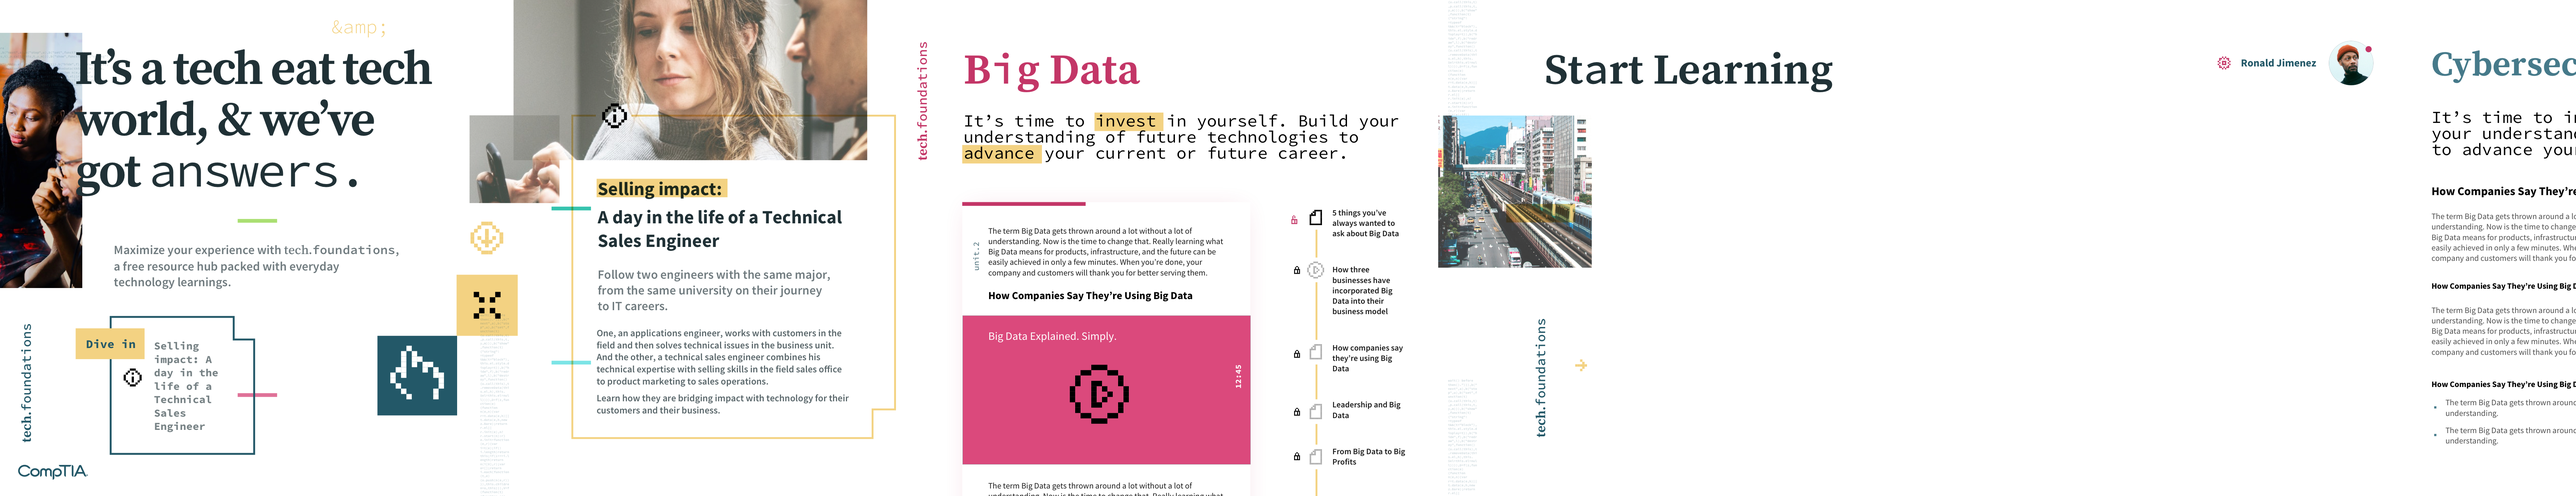
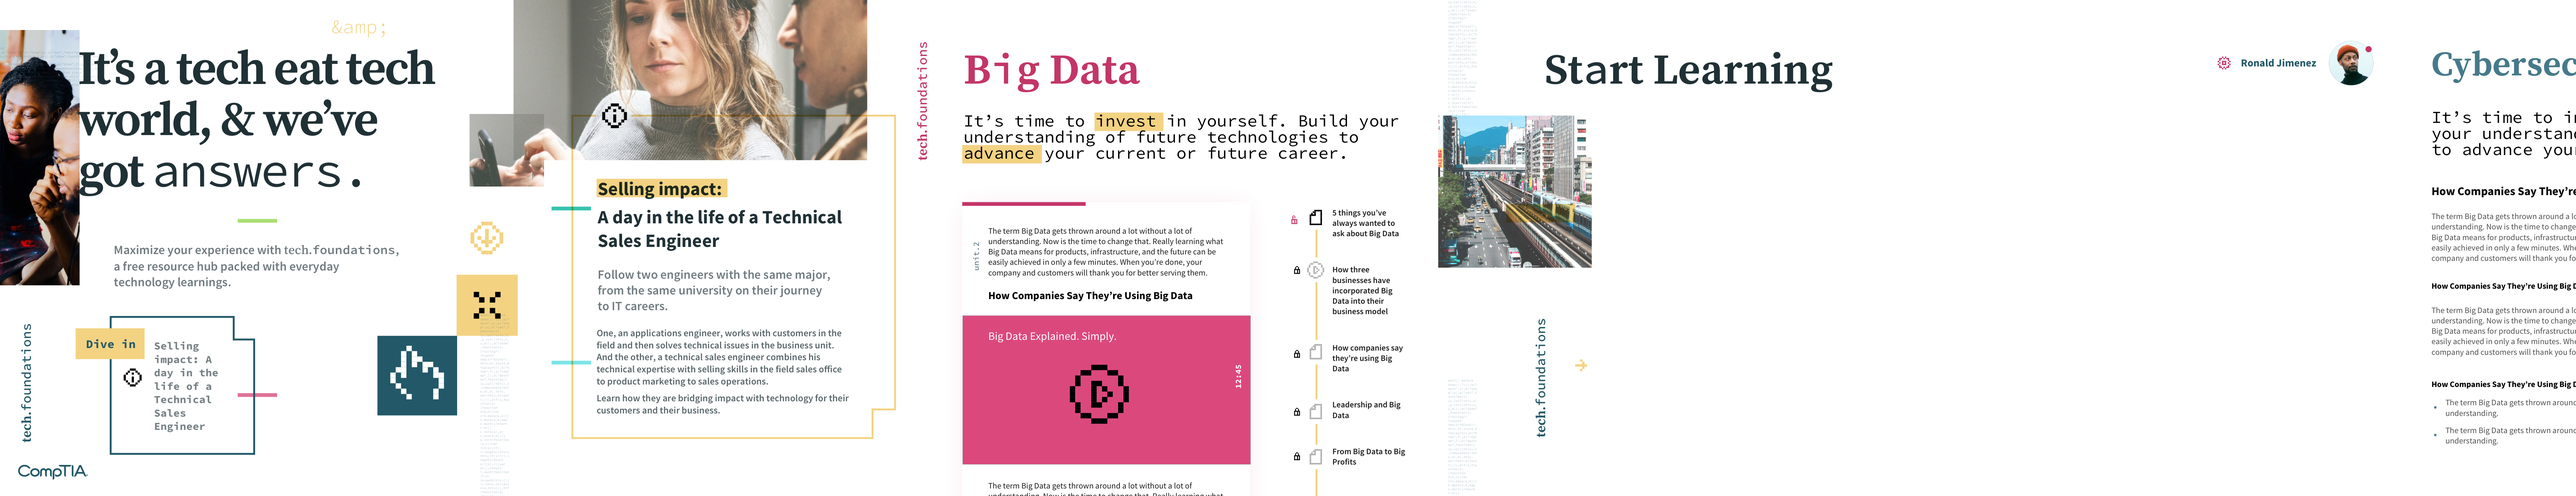
updates

Changed region(s): [[0.0, 0.0, 0.3437, 0.5886]]

diff --git a/css/style.css b/css/style.css
@@ -59,8 +59,8 @@ body {
 }
 
 .illo-wrapper {
-  width:45vh;
-  height:50vh;
+  width: 53vh;
+  height: 53vh;
   position:relative;
   transform-style:preserve-3d;
   perspective: 9000px;
@@ -76,7 +76,7 @@ body {
 
 .illo-wrapper:nth-child(1) {
   top:8vh;
-  left:18vh;
+  left:20vh;
   
 }
 
